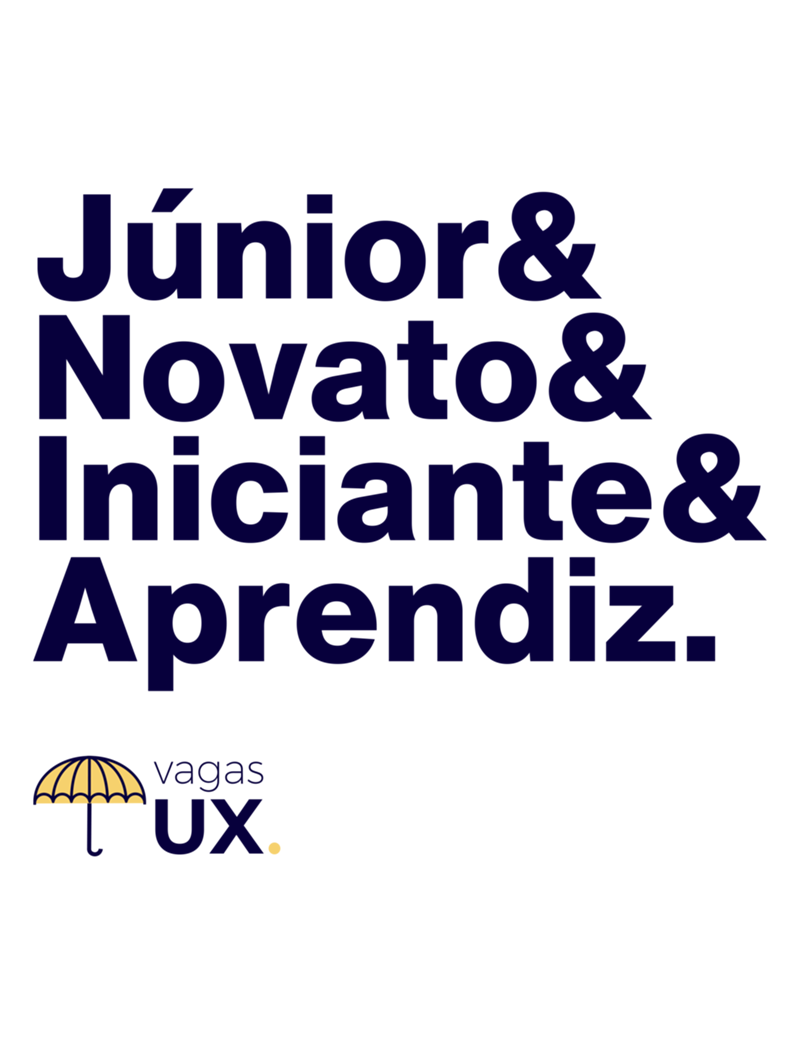
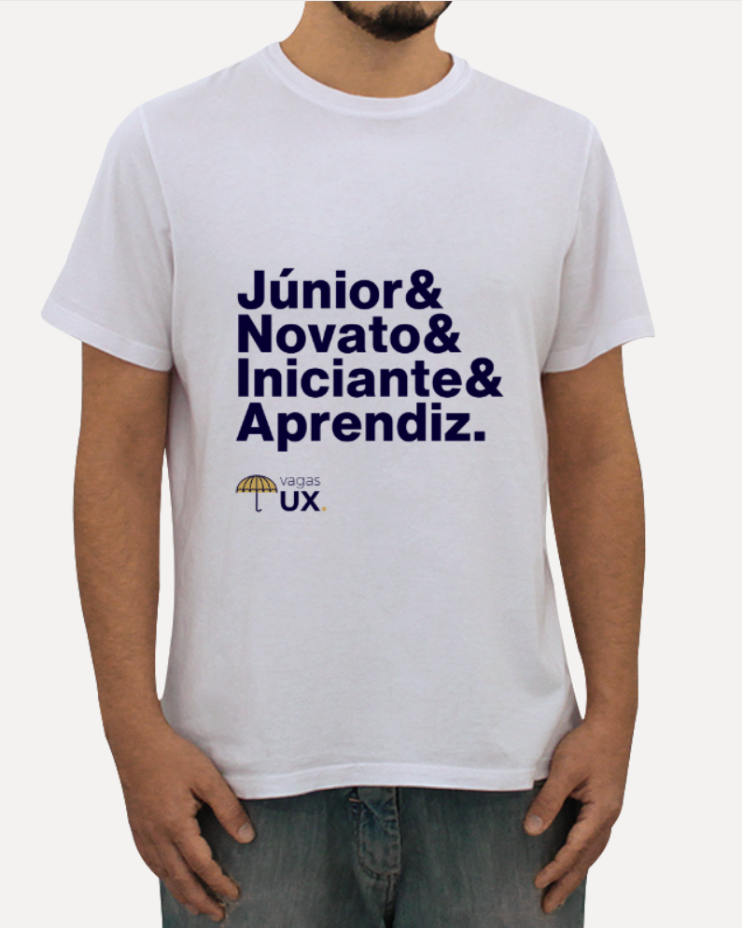
fix(web): use product mockups and link shop cards to Colab55
Replace flat artwork previews with Colab55 canvas mockups and make
each product card open the corresponding product page in a new tab.

diff --git a/web/src/components/CommunityShopSection.tsx b/web/src/components/CommunityShopSection.tsx
@@ -9,21 +9,25 @@ import canecaChuvaDeVagas from '@/assets/shop/caneca-chuva-de-vagas.png'
 const products = [
   {
     name: 'Caneca Chuva de Vagas',
+    href: communityShops.products.canecaChuvaDeVagas,
     image: canecaChuvaDeVagas,
     alt: 'Caneca branca com padrão de guarda-chuvas amarelos e logo VagasUX',
   },
   {
     name: 'Camiseta Lute como um júnior',
+    href: communityShops.products.camisetaLuteJuniorPreta,
     image: camisetaLuteJuniorPreta,
     alt: 'Camiseta preta com a frase Lute como um júnior e logo VagasUX',
   },
   {
     name: 'Camiseta Júnior & Iniciante',
+    href: communityShops.products.camisetaJuniorIniciante,
     image: camisetaJuniorNovato,
-    alt: 'Camiseta com Júnior, Novato, Iniciante e Aprendiz e logo VagasUX',
+    alt: 'Camiseta branca com Júnior, Novato, Iniciante e Aprendiz e logo VagasUX',
   },
   {
     name: 'Bolsa Guia do Product Designer',
+    href: communityShops.products.bolsaGuia,
     image: bolsaGuia,
     alt: 'Ecobag amarela com ilustração e logo VagasUX',
   },
@@ -74,9 +78,12 @@ export function CommunityShopSection() {
 
         <div className="mural-fade mural-fade-delay-1 mt-12 grid gap-4 sm:grid-cols-2 xl:grid-cols-4">
           {products.map((product) => (
-            <article
+            <a
               key={product.name}
-              className="comunidade-card group overflow-hidden rounded-3xl border border-white/10 bg-neutral-100/95 shadow-[0_24px_60px_-32px_rgb(0_0_0_/_0.55)]"
+              href={product.href}
+              target="_blank"
+              rel="noopener noreferrer"
+              className="comunidade-card group block overflow-hidden rounded-3xl border border-white/10 bg-neutral-100/95 shadow-[0_24px_60px_-32px_rgb(0_0_0_/_0.55)] focus-visible:outline focus-visible:outline-2 focus-visible:outline-offset-2 focus-visible:outline-complementary-300"
             >
               <div className="aspect-[4/5] overflow-hidden bg-neutral-200/80 p-4">
                 <img
@@ -87,12 +94,18 @@ export function CommunityShopSection() {
                   decoding="async"
                 />
               </div>
-              <div className="border-t border-neutral-500/10 px-5 py-4">
+              <div className="flex items-center justify-between gap-3 border-t border-neutral-500/10 px-5 py-4">
                 <p className="text-sm font-bold leading-snug text-neutral-500">
                   {product.name}
                 </p>
+                <span
+                  className="shrink-0 text-sm font-bold text-brand-400 transition-transform group-hover:translate-x-0.5"
+                  aria-hidden
+                >
+                  →
+                </span>
               </div>
-            </article>
+            </a>
           ))}
         </div>
 

diff --git a/web/src/lib/siteLinks.ts b/web/src/lib/siteLinks.ts
@@ -26,4 +26,14 @@ export const superSite = {
 export const communityShops = {
   colab55: 'https://www.colab55.com/@vagasux',
   umapenca: 'https://umapenca.com/vagasux/',
+  products: {
+    canecaChuvaDeVagas:
+      'https://www.colab55.com/@vagasux/mugs/chuva-de-vagas',
+    camisetaLuteJuniorPreta:
+      'https://www.colab55.com/@vagasux/tees/lute-como-um-junior-preta',
+    camisetaJuniorIniciante:
+      'https://www.colab55.com/@vagasux/tees/junior-iniciante',
+    bolsaGuia:
+      'https://www.colab55.com/@vagasux/totebags/guia-do-product-designer',
+  },
 } as const
